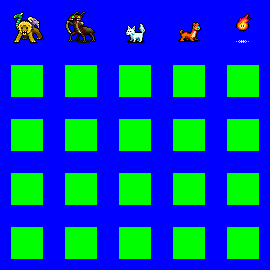
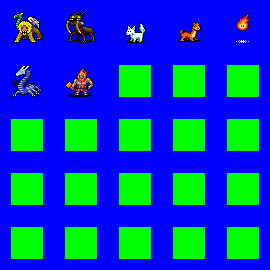
Added azer sprite

Changed region(s): [[0.237, 0.237, 0.3852, 0.3852], [0.0296, 0.237, 0.1778, 0.3852]]

diff --git a/narrator/encounters.py b/narrator/encounters.py
@@ -11,6 +11,7 @@ import services
 import teams
 import characters
 import random
+import randmaps
 
 import stats
 import spells
@@ -43,12 +44,11 @@ class TestEncounter( Plot ):
     LABEL = "zTEST_FEATURE"
     def custom_init( self, nart ):
         scene = self.elements.get("LOCALE")
-        mygen = nart.get_map_generator( scene )
-        room = mygen.DEFAULT_ROOM()
+        room = randmaps.rooms.FuzzyRoom()
         myteam = teams.Team(default_reaction=-999, rank=self.rank, 
-          strength=0, habitat=scene.get_encounter_request(), fac=scene.fac )
+          strength=0, habitat=None )
         room.contents.append( myteam )
-        monster = monsters.ignan.Spark( myteam )
+        monster = monsters.misc.Behir( myteam )
         room.contents.append( monster )
         room.contents.append( waypoints.HealingFountain() )
         mychest = waypoints.MediumChest()

diff --git a/narrator/citybits.py b/narrator/citybits.py
@@ -121,7 +121,7 @@ class MoriaVille( Plot ):
         self.add_sub_plot( nart, "CITY_ARMORSHOP",spstate=PlotState(rank=random.randint(3,5)).based_on(self))
         self.add_sub_plot( nart, "CITY_ADVGUILD" )
 
-        #self.add_sub_plot( nart, "TEST_FEATURE", necessary=False )
+        self.add_sub_plot( nart, "TEST_FEATURE",spstate=PlotState(elements={"LOCALE":castle}).based_on(self), necessary=False )
         return True
     def t_START( self, explo ):
         # Reveal everything the first time this city is entered.
